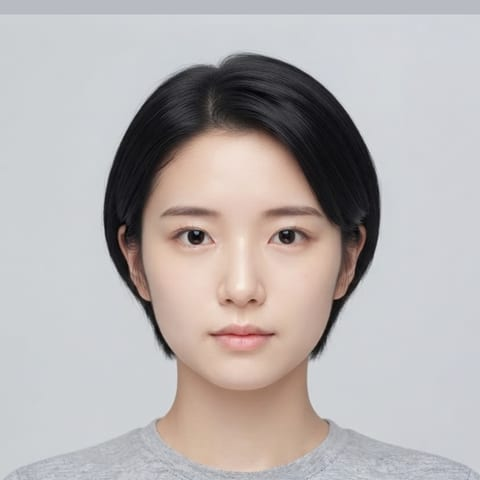
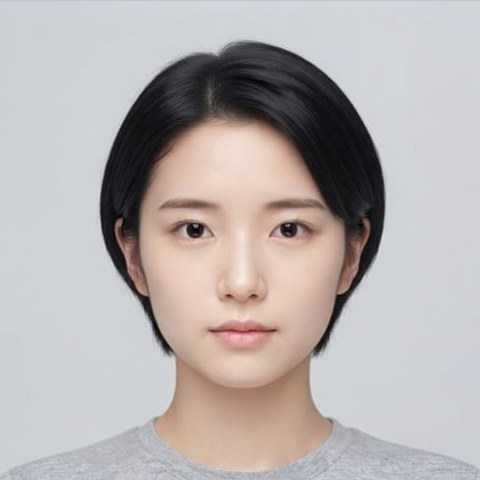
顔が1枚だけ小さく写る切り出しを直す
f139 だけ顔が中央値の 0.79倍 で写っていた。ほかは 0.95〜1.07倍 に
そろっているので明確な外れ値。枠が広いほど顔は小さく写るため、その顔は
中身ではなく「小さいから」選ばれにくくなり、集めた選択がゆがむ。

原因は頭頂の実測が髪のほつれや背景のムラを上に拾い、その分だけ枠が
広がっていたこと。枠は目の間隔 d の 6.36倍 あった（ほかは 4.70〜5.13倍）。
頭頂の判定を厳しくするより、枠の広さを抑えるほうが確実で副作用がない。

  - 上限を d の 5.2倍 にする（6.6倍 は緩すぎて効いていなかった）
  - 切り詰めたぶんは上下に振り分ける。頭頂に合わせたままだと
    頭の上だけ詰まってあごの下が余る
  - 枠が元画像からはみ出すときは、埋める前にまず縮めて画像の中へ寄せる

最後の1点は f67 の問題。はみ出しを背景色で埋めた結果、上端に14pxの
完全な無地の帯ができていた（ばらつき 0.0）。許容は枠の25%までと緩く、
作った画素だと分かる帯が通っていた。

f139 は元画像から切り直し、f67 は帯を落として正方形に整え直した。
実測値は元画像から測るので変わらない（f139 は15項目すべて一致）。
元画像が残っている56枚で回帰を確認し、実測値 56/56 一致、
作った無地の帯は0枚。全115枚が中央値の 0.93〜1.07倍 に収まった。

Claude-Session: https://claude.ai/code/session_01TDnL9mgcvwXTouEv8J9n96

diff --git a/src/measure.js b/src/measure.js
@@ -100,15 +100,39 @@ export function samplePatch(px, W, H, cx, cy, r, stride = 3) {
  * 広いほど頭と肩がよく入るが、画像に収まらなければ意味がないので、
  * 収まる範囲でできるだけ広い枠を選ぶ。単位は両目間距離 d。
  */
+// 枠の広さの上限と下限。単位は両目間距離 d。
+//
+// 枠が広いほど顔は小さく写る。1枚だけ顔が小さいと、その顔は中身ではなく
+// 「小さいから」選ばれにくくなり、集めた選択がゆがむ。そろえる必要がある。
+//
+// 同梱115枚の実測では 113枚が 4.70〜5.13倍 に収まっていた。
+// 外れたのは2枚で、どちらも頭頂の実測が髪のほつれや背景のムラを拾って
+// 上に外し、その分だけ枠が広がっていた（6.36倍 と 5.35倍）。
+// 頭頂の判定を厳しくするより、枠の広さを抑えるほうが確実で副作用がない。
+const BOX_MAX = 5.2;
+const BOX_MIN = 4.0;
+
 export function chooseBox(geo, W, H, headTop = null) {
   const d = geo._d;
   // 頭頂が実測できていればそこを基準にする。できなければ両目の間隔から見積もる。
-  const top = Math.round((headTop ?? (geo._eyeMid.y - 1.75 * d)) - d * 0.16);
+  const top0 = (headTop ?? (geo._eyeMid.y - 1.75 * d)) - d * 0.16;
   // あごの下も入れておく（髪の長さは別に元画像で測るが、見た目として肩まで欲しい）
-  const need = (geo._chin.y + d * 0.95) - top;
-  const box = Math.round(Math.min(d * 6.6, Math.max(need, d * 4.0)));
-  const ox = Math.round(geo._eyeMid.x - box / 2);
-  const oy = top;
+  const need = (geo._chin.y + d * 0.95) - top0;
+  // 元画像からはみ出す枠は、足りないぶんを作った画素で埋めることになる。
+  // 作った画素は 完全な無地の帯として見えるので、埋める前に枠を縮める。
+  // 縮めても下限を割るときだけ、最後の手段として埋める。
+  const fits = Math.min(W, H);
+  let box = Math.round(Math.min(d * BOX_MAX, Math.max(need, d * BOX_MIN)));
+  box = Math.round(Math.max(Math.min(box, fits), Math.min(d * BOX_MIN, fits)));
+
+  // 上限で切り詰めたぶんは上下に振り分ける。頭頂に合わせたままだと、
+  // 頭の上だけ詰まってあごの下が余る。
+  let oy = Math.round(top0 + Math.max(0, need - box) * 0.5);
+  let ox = Math.round(geo._eyeMid.x - box / 2);
+  // はみ出すなら、埋めずにまず画像の中へ寄せる
+  if (box <= W) ox = Math.min(Math.max(ox, 0), W - box);
+  if (box <= H) oy = Math.min(Math.max(oy, 0), H - box);
+
   const pad = Math.max(-ox, -oy, ox + box - W, oy + box - H, 0);
   return { box, ox, oy, pad };
 }

diff --git a/README.md b/README.md
@@ -277,6 +277,27 @@ npm start
 静的ファイルなので、GitHub Pages など任意の静的ホスティングにそのまま置けます。
 `main` へ push すると GitHub Pages へ自動でデプロイされます。
 
+### 顔の大きさをそろえる
+
+切り出し枠の広さは両目の間隔 d を単位に決めます（`chooseBox`）。
+枠が広いほど顔は小さく写るので、**1枚だけ顔が小さいと、その顔は中身ではなく
+「小さいから」選ばれにくくなり、集めた選択がゆがみます**。
+
+同梱115枚の実測では、枠は d の 4.70〜5.13倍 にそろっています。
+外れていた2枚は、どちらも頭頂の実測が髪のほつれや背景のムラを上に拾い、
+その分だけ枠が広がっていました（6.36倍 と 5.35倍）。
+
+- 上限を **d の 5.2倍** にして、広がりすぎを止める
+- 上限で切り詰めたぶんは上下に振り分ける（頭の上だけ詰まるのを避ける）
+- **枠が元画像からはみ出すときは、埋める前にまず枠を縮めて画像の中へ寄せる**
+
+最後の1点は、はみ出しを背景色で埋めると**完全に無地の帯**ができ、
+そこだけ作った画素だと分かってしまうためです。下限（d の 4.0倍）を
+割るときだけ、最後の手段として埋めます。
+
+顔の大きさがそろっているかは、切り出し済みの画像を検出し直して確かめられます。
+現在は全115枚が中央値の 0.93〜1.07倍 に収まっています。
+
 ### 同じ人物が重複していないか確かめる
 
 同一人物が複数入っていると、その人の特徴に結果が引っ張られます。
